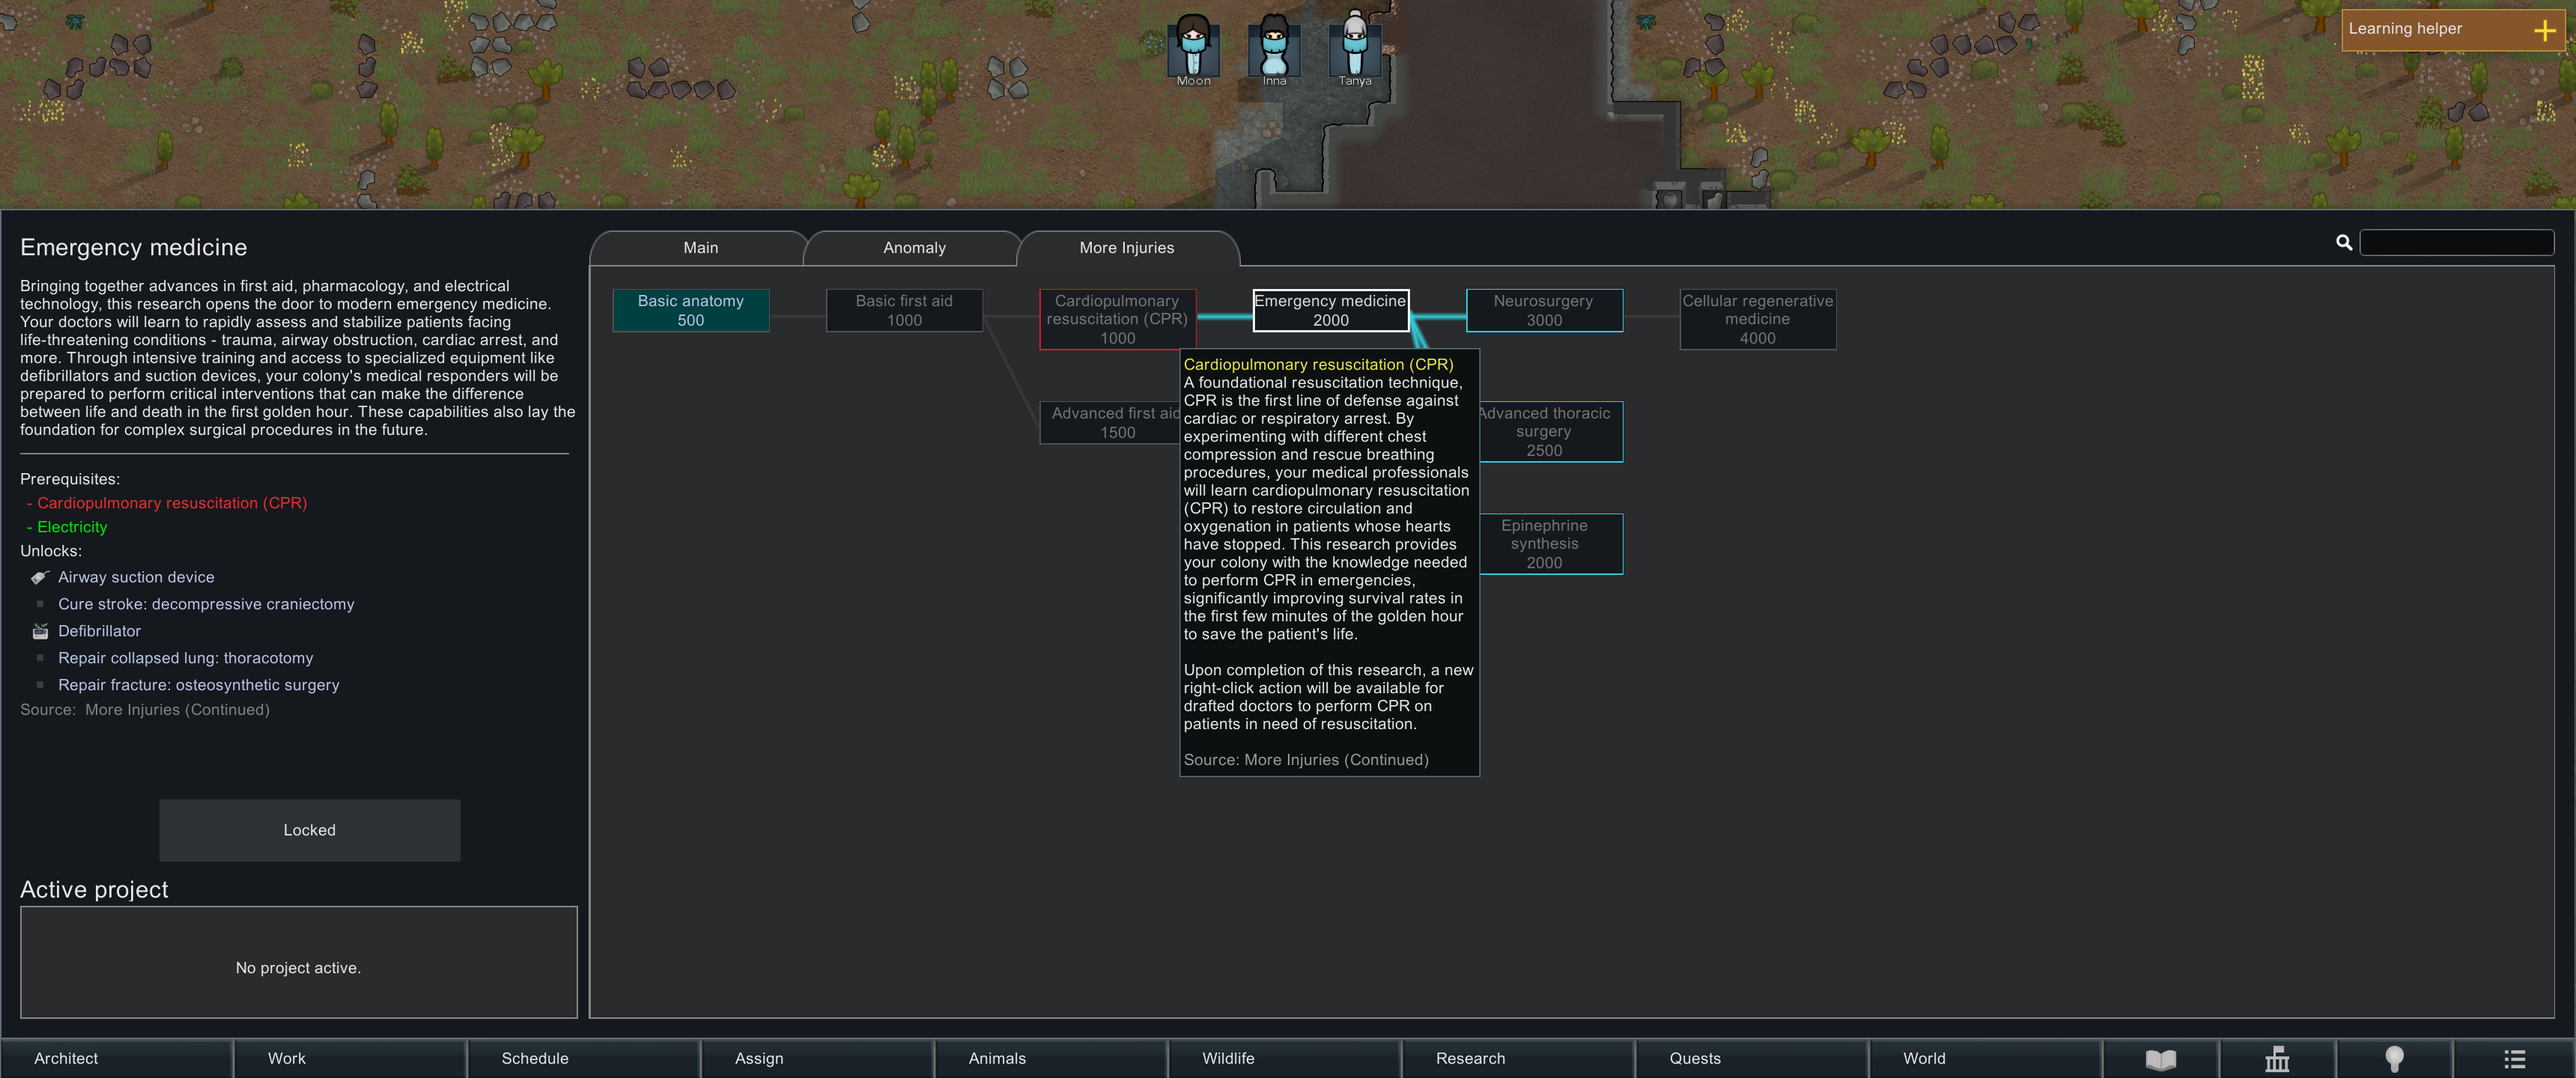
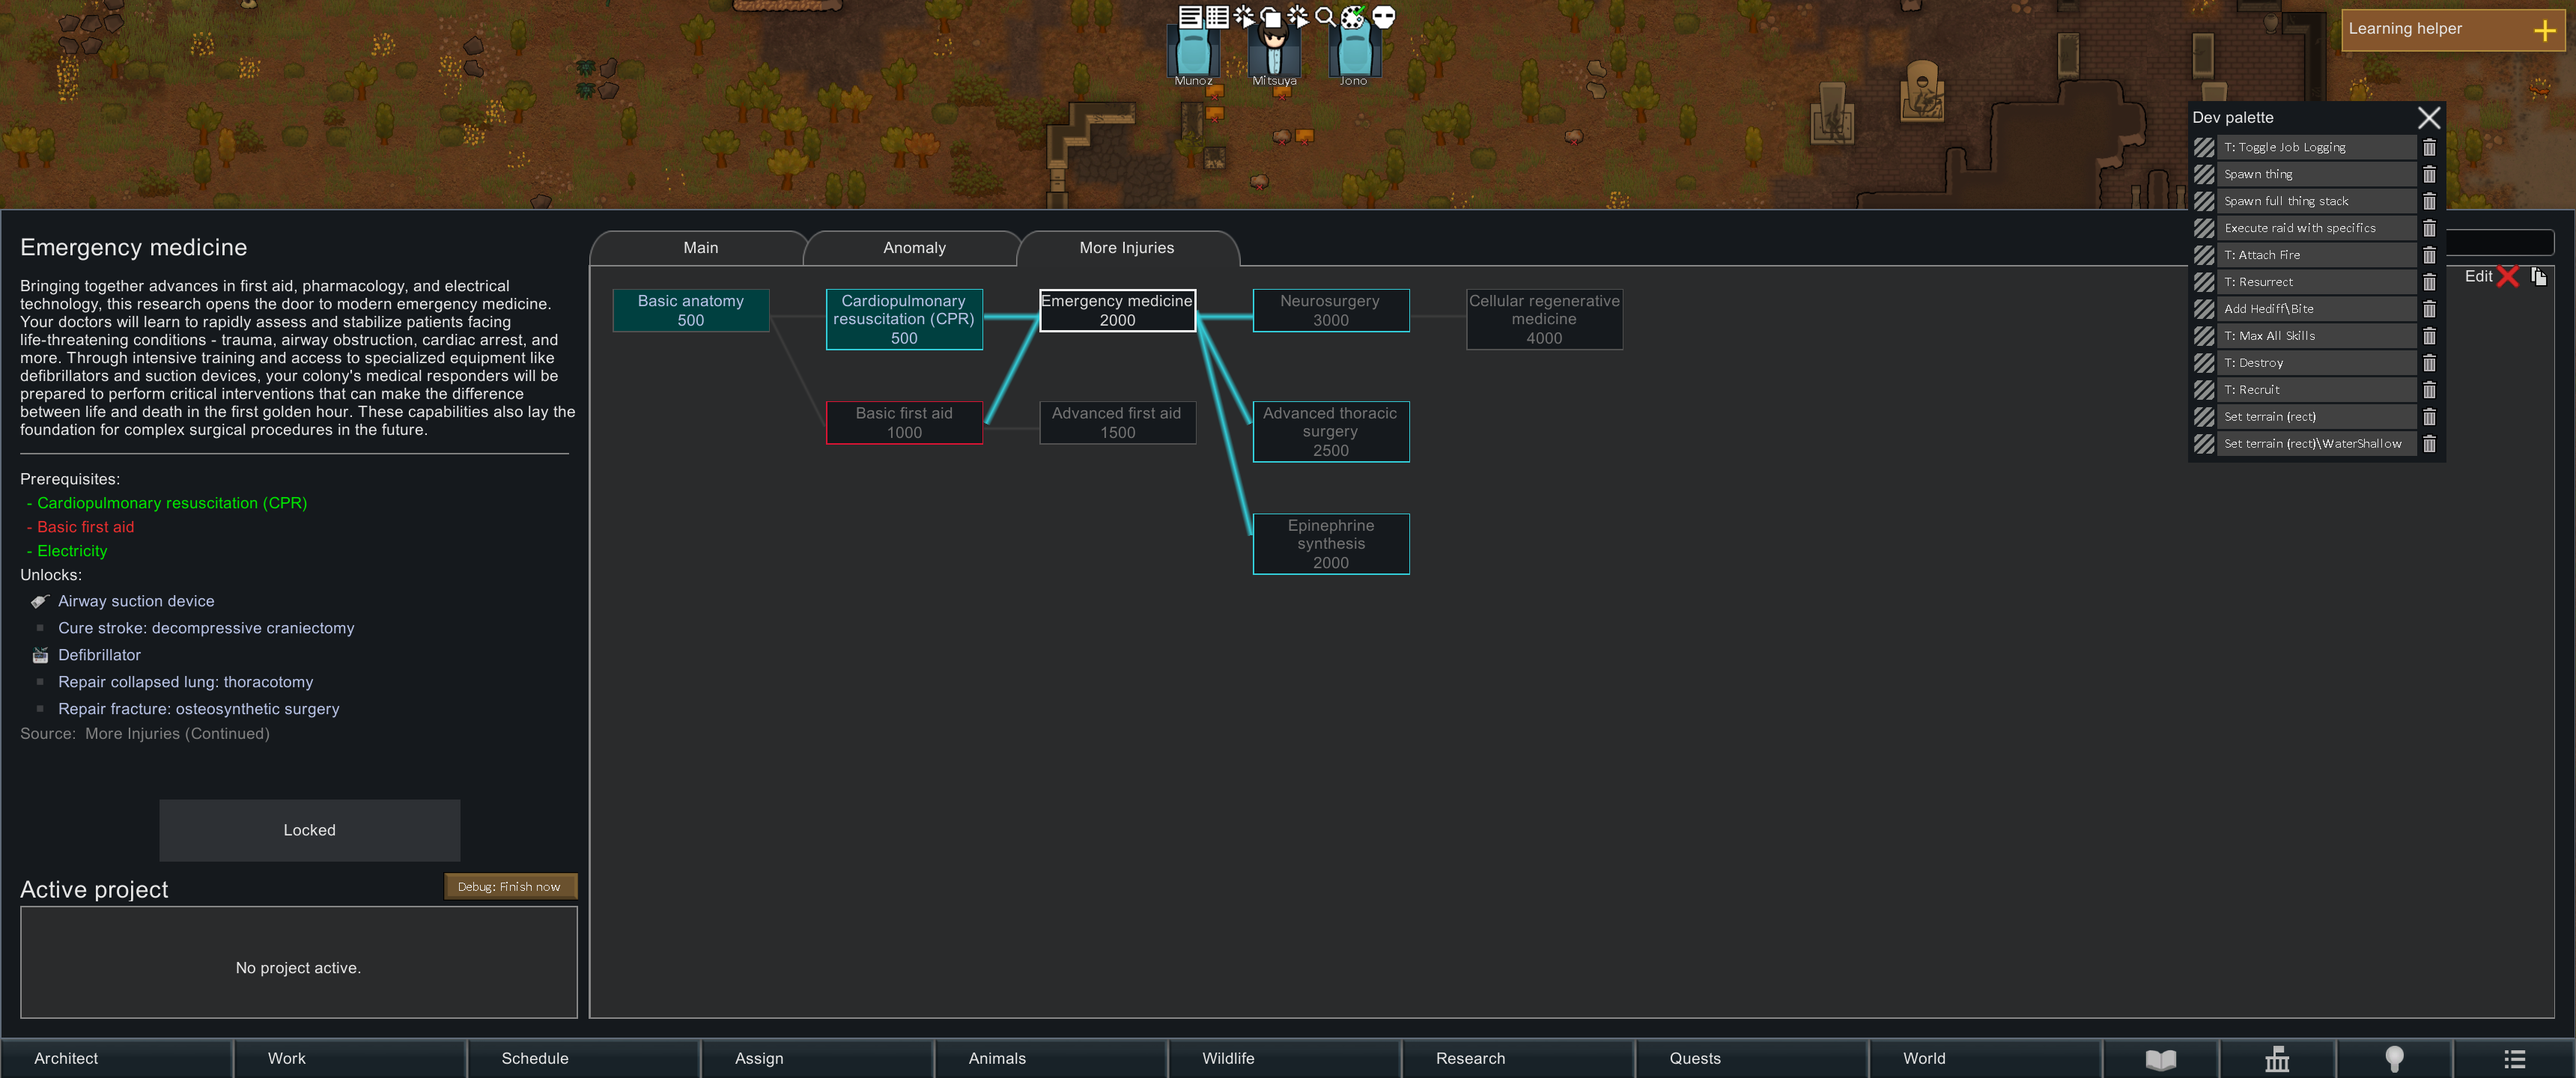
lower research requirements for CPR

diff --git a/Source/MoreInjuries/MoreInjuries/Future/SpanExtensions.cs b/Source/MoreInjuries/MoreInjuries/Future/SpanExtensions.cs
@@ -1,6 +1,6 @@
 using System.Collections.Generic;
 
-namespace MoreInjuries.Bcl;
+namespace MoreInjuries.Future;
 
 internal static class SpanExtensions
 {

diff --git a/README.md b/README.md
@@ -73,9 +73,9 @@ The More Injuries mod aims to increase the simulation depth of RimWorld's medica
     - [Video-Assisted Thoracoscopic Surgery](#video-assisted-thoracoscopic-surgery)
   - [New Research Projects](#new-research-projects)
     - [Basic Anatomy](#basic-anatomy)
+    - [Cardiopulmonary Resuscitation (CPR)](#cardiopulmonary-resuscitation-cpr)
     - [Basic First Aid](#basic-first-aid)
     - [Advanced First Aid](#advanced-first-aid)
-    - [Cardiopulmonary Resuscitation (CPR)](#cardiopulmonary-resuscitation-cpr)
     - [Emergency Medicine](#emergency-medicine)
     - [Neurosurgery](#neurosurgery)
     - [Advanced Thoracic Surgery](#advanced-thoracic-surgery)
@@ -907,7 +907,7 @@ $\rightarrow$ *see [lung collapse](#lung-collapse)*
 
 More Injuries introduces several new research projects that can be undertaken to unlock new life-saving treatments and surgical procedures. These research projects expand the medical capabilities of your colony and allow you to treat previously untreatable injuries and medical conditions. As your technology advances, you will be able to provide better care to your colonists and save more lives in the harsh environment of the RimWorld.
 
-![An overview of the new research projects added by More Injuries.](assets/research.png)
+![An overview of the new research projects added by More Injuries.](docs/assets/research.png)
 
 > [!TIP]
 > All new research projects can be found in the new *More Injuries* research tab.
@@ -926,6 +926,22 @@ More Injuries introduces several new research projects that can be undertaken to
 
 > [!TIP]
 > The *Basic anatomy* research project is automatically unlocked when starting with the classic *Crashlanded* scenario. Other scenarios require you to research it manually.
+
+### Cardiopulmonary Resuscitation (CPR)
+
+> **In-Game Description**
+> _"**Cardiopulmonary resuscitation (CPR)** &mdash; A foundational resuscitation technique discovered in the early 1960s, cardiopulmonary resuscitation (CPR) is the first line of defense against cardiac or respiratory arrest. By experimenting with different chest compression and rescue breathing procedures, your medical professionals will learn CPR to restore circulation and oxygenation in patients whose hearts have stopped. This research provides your colony with the knowledge needed to perform CPR in emergencies, significantly improving survival rates in the first few minutes of the golden hour to save the patient's life.
+>Upon completion of this research, a new right-click action will be available for drafted doctors to perform CPR on patients in need of resuscitation."_
+
+**Tech Level**: Industrial  
+**Unlocks**: [CPR](#cpr)  
+**Required Research Bench & Addon**: Simple  
+**Research Requirements**: [Basic anatomy](#basic-anatomy)  
+**Unlocks Research Projects**: [Emergency medicine](#emergency-medicine)  
+**Research Cost**: 500
+
+> [!TIP]
+> The *Cardiopulmonary resuscitation (CPR)* research project is automatically unlocked when starting with the classic *Crashlanded* scenario. Other scenarios require you to research it manually.
 
 ### Basic First Aid
 
@@ -951,19 +967,6 @@ More Injuries introduces several new research projects that can be undertaken to
 **Unlocks Research Projects**: None  
 **Research Cost**: 1500
 
-### Cardiopulmonary Resuscitation (CPR)
-
-> **In-Game Description**
-> _"**Cardiopulmonary resuscitation (CPR)** &mdash; A foundational resuscitation technique, CPR is the first line of defense against cardiac or respiratory arrest. By experimenting with different chest compression and rescue breathing procedures, your medical professionals will learn cardiopulmonary resuscitation (CPR) to restore circulation and oxygenation in patients whose hearts have stopped. This research provides your colony with the knowledge needed to perform CPR in emergencies, significantly improving survival rates in the first few minutes of the golden hour to save the patient's life.
-> Upon completion of this research, a new right-click action will be available for drafted doctors to perform CPR on patients in need of resuscitation."_
-
-**Tech Level**: Industrial  
-**Unlocks**: [CPR](#cpr)  
-**Required Research Bench & Addon**: Simple  
-**Research Requirements**: [Basic first aid](#basic-first-aid)  
-**Unlocks Research Projects**: [Emergency medicine](#emergency-medicine)  
-**Research Cost**: 1000
-
 ### Emergency Medicine
 
 > **In-Game Description**
@@ -972,7 +975,7 @@ More Injuries introduces several new research projects that can be undertaken to
 **Tech Level**: Industrial  
 **Unlocks**: [defibrillators](#defibrillator), [airway suction devices](#airway-suction-device), [decompressive craniectomy](#decompressive-craniectomy), [osteosynthetic surgery](#osteosynthetic-surgery), [thoracotomy](#thoracotomy)  
 **Required Research Bench & Addon**: Simple  
-**Research Requirements**: [Cardiopulmonary resuscitation (CPR)](#cardiopulmonary-resuscitation-cpr), electricity
+**Research Requirements**: [Cardiopulmonary resuscitation (CPR)](#cardiopulmonary-resuscitation-cpr), [basic first aid](#basic-first-aid), electricity  
 **Unlocks Research Projects**: [Cellular regeneration](#cellular-regeneration), [advanced thoracic surgery](#advanced-thoracic-surgery), [epinephrine synthesis](#epinephrine-synthesis)  
 **Research Cost**: 2000
 

diff --git a/INSTALL.md b/INSTALL.md
@@ -13,7 +13,7 @@ There are several ways to install this RimWorld mod. As an end user, the most co
 If you are a developer and want to compile the mod from source, you will need to have the .NET SDK capable of targeting .NET Framework 4.7.2 and .NET 8+ installed on your machine. The easiest way to do this is by installing Visual Studio 2022 and selecting the required workloads during installation.
 
 > [!NOTE]
-> While RimWorld runs on Unity and the Mono runtime and thus targets .NET Framework 4.7.2, More Injuries uses some more recent C# features that are shimmed in `Source/MoreInjuries/MoreInjuries/_future.cs` and allows modern C# features (e.g., `init`-only and `required` properties) to be used when targeting the older .NET Framework runtime. This process requires the compiler to understand the newer C# features, which is why a recent .NET SDK is required.
+> While RimWorld runs on Unity and the Mono runtime and thus targets .NET Framework 4.7.2, More Injuries uses some more recent C# features that are shimmed in `Source/MoreInjuries/MoreInjuries/Future` and allows modern C# features (e.g., `init`-only and `required` properties) to be used when targeting the older .NET Framework runtime. This process requires the compiler to understand the newer C# features, which is why a recent .NET SDK is required.
 
 Once you have the required tools installed, follow these steps to compile the mod from source:
 
